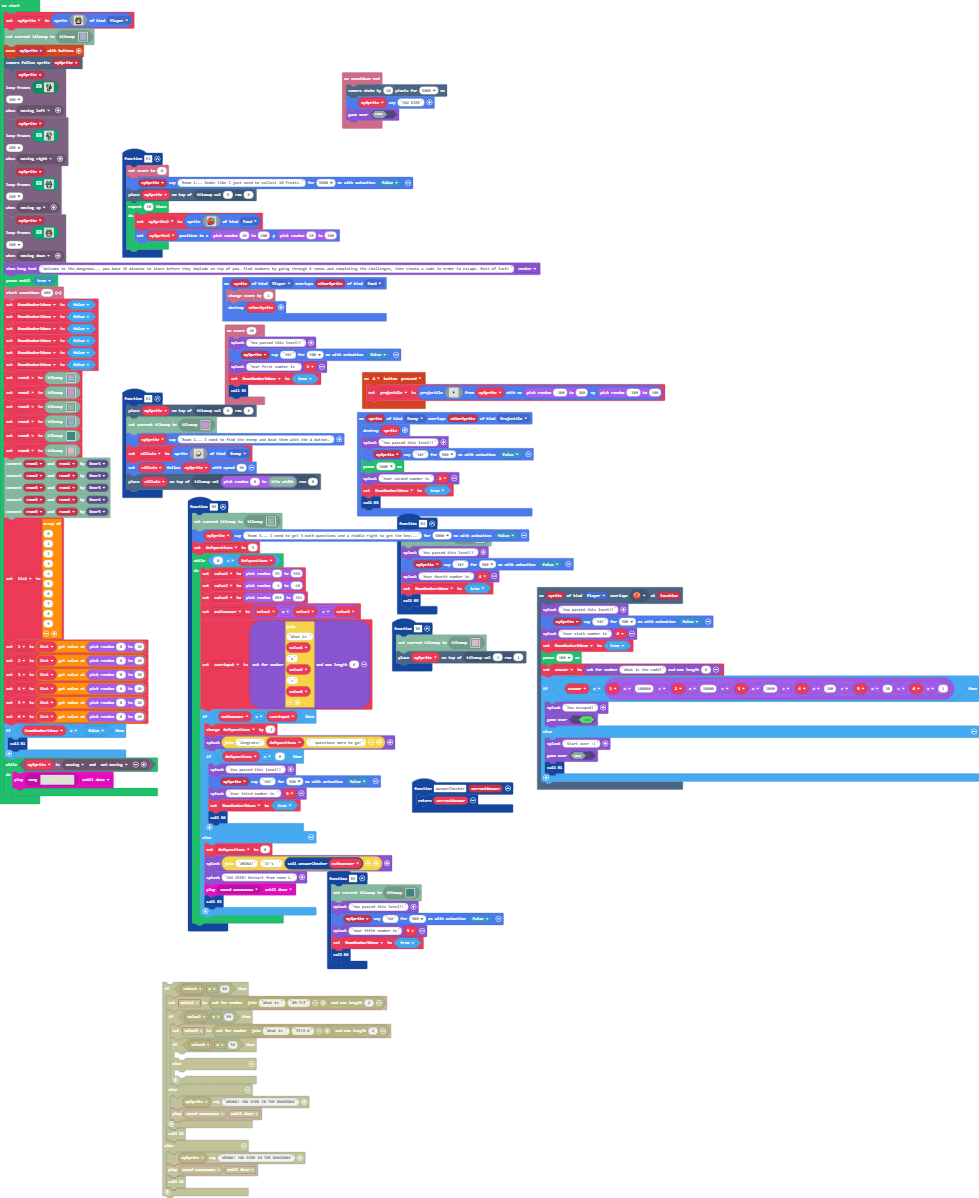
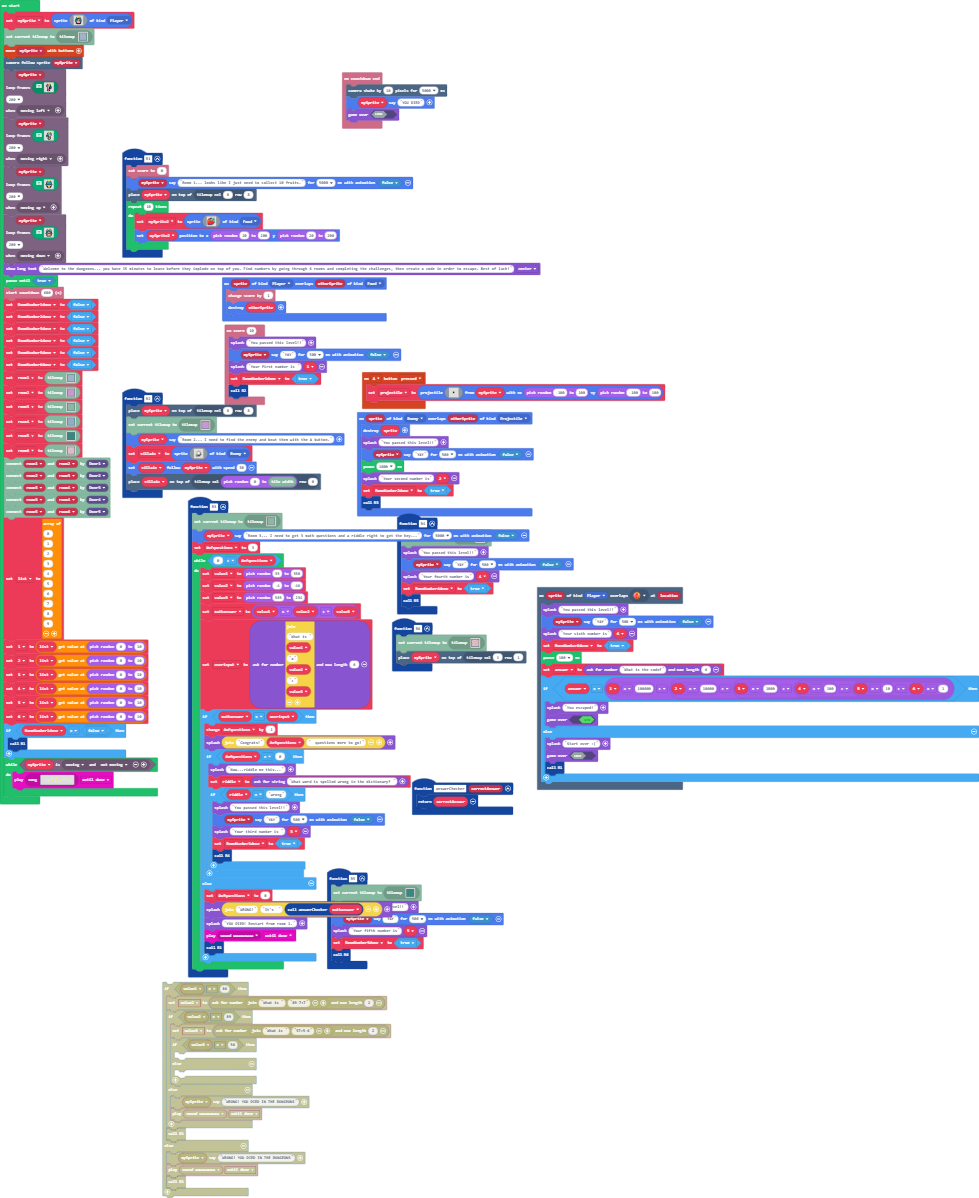
room3riddle

Changed region(s): [[0.1839, 0.6486, 0.5209, 0.8339], [0.2758, 0.2162, 0.3984, 0.2471]]

diff --git a/main.ts b/main.ts
@@ -126,11 +126,15 @@ function R3 () {
             ofquestions += -1
             game.splash("Congrats!" + ofquestions + "  questions more to go!")
             if (ofquestions == 0) {
-                game.splash("You passed this level!!")
-                mySprite.sayText("YAY", 500, false)
-                game.splash("Your third number is ", _3)
-                RoomNumber3done = true
-                R4()
+                game.splash("Now...riddle me this...")
+                riddle = game.askForString("What word is spelled wrong in the dictionary? ")
+                if (riddle == "wrong") {
+                    game.splash("You passed this level!!")
+                    mySprite.sayText("YAY", 500, false)
+                    game.splash("Your third number is ", _3)
+                    RoomNumber3done = true
+                    R4()
+                }
             }
         } else {
             ofquestions = 0
@@ -181,6 +185,7 @@ function R5 () {
     R6()
 }
 let answer = 0
+let riddle = ""
 let userinput = 0
 let mathanswer = 0
 let value3 = 0
